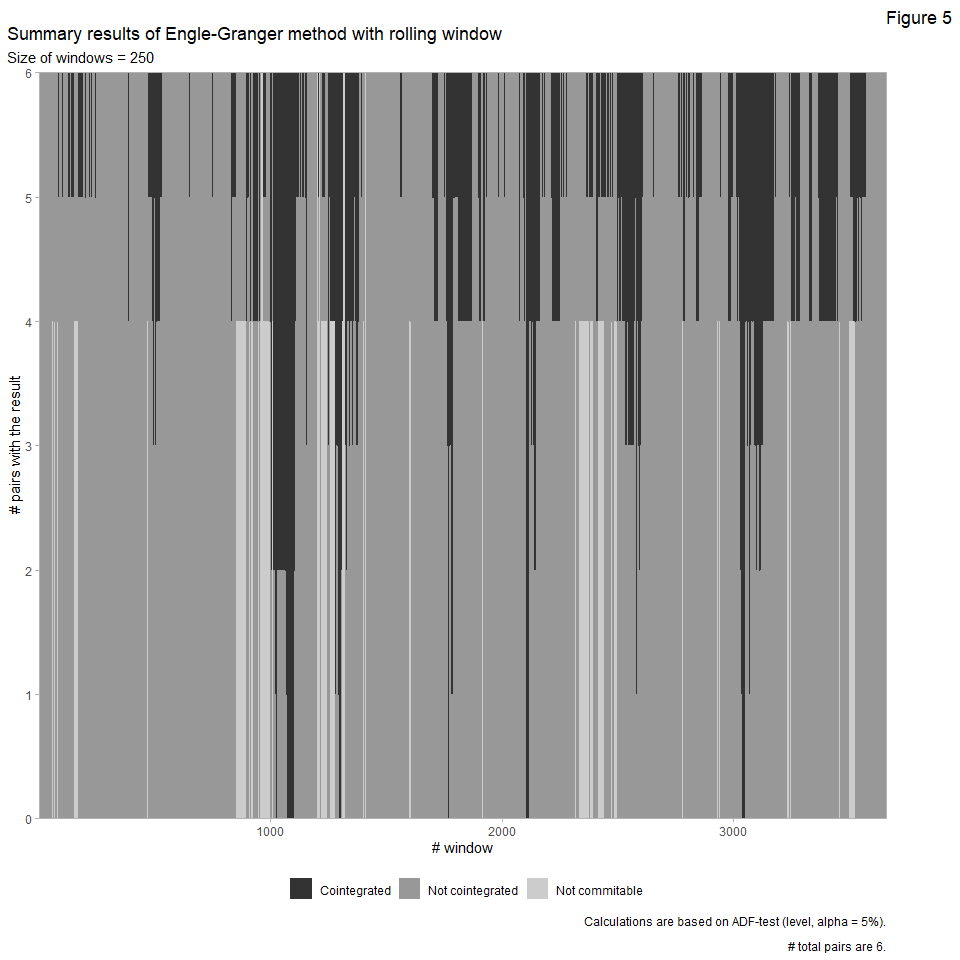
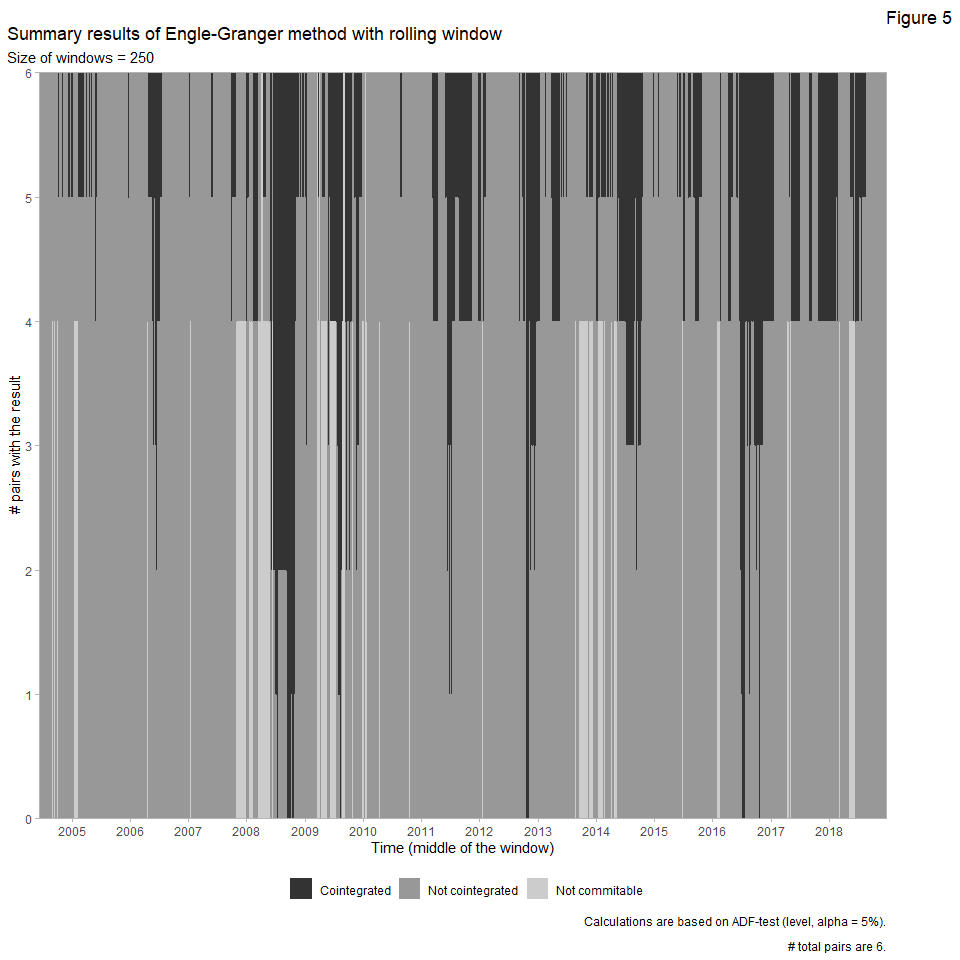
07-15c

diff --git a/Exercise-3.md b/Exercise-3.md
@@ -1,4 +1,4 @@
-Exercise-3
+Exercise 3
 ================
 Granát Marcell
 2020 07 14
@@ -305,25 +305,24 @@ merge(expand.grid(1:(nrow(Bankdata) - 249), c(0, 1, 2)) %>% rename_all(funs(c("t
       cointegration == 1 ~ "Not cointegrated",
       cointegration == 2 ~ "Cointegrated"
     ),
-    cointegration = factor(cointegration, levels = c("Cointegrated", "Not cointegrated", "Not commitable"))
+    cointegration = factor(cointegration, levels = c("Cointegrated", "Not cointegrated", "Not commitable")),
+    t = as.Date(Bankdata$Date)[t + 125]
   ) %>%
   ggplot() +
   geom_area(aes(x = t, y = n, fill = cointegration)) +
-  scale_x_continuous(expand = c(0, 0)) +
   scale_y_continuous(expand = c(0, 0)) +
+  scale_x_date(expand = c(0,0), date_breaks = "1 year", date_labels = "%Y") +
   theme(
     legend.position = "bottom"
-  ) +
-  labs(
+  ) + labs(
     title = "Summary results of Engle-Granger method with rolling window",
     subtitle = "Size of windows = 250",
     y = "# pairs with the result",
-    x = "# window",
+    x = "Time (middle of the window)",
     caption = "Calculations are based on ADF-test (level, alpha = 5%).\n
     # total pairs are 6.",
     tag = 'Figure 5'
-  ) +
-  scale_fill_grey()
+  ) + scale_fill_grey()
 ```
 
 ![](Exercise-3_files/figure-gfm/unnamed-chunk-12-1.png)<!-- -->
@@ -365,24 +364,26 @@ johansen_tests_rw %>%
       name == "pct1" ~ "1%",
       name == "pct5" ~ "5%",
       name == "pct10" ~ "10%"
-    )
-  ) %>%
-  ggplot(aes(x = t, y = value, color = name)) +
+    ),
+    t = as.Date(Bankdata$Date)[t + 125]
+  ) %>% ggplot(aes(x = t, y = value, color = name)) +
   geom_jitter(width = 0, height = 0.05) +
   scale_color_grey() +
   theme(
     legend.position = "bottom"
   ) +
   scale_y_continuous(breaks = c(0, 1, 2)) +
-  scale_x_continuous(expand = c(0, 0)) +
+  scale_x_date(expand = c(0,0), date_breaks = "1 year", date_labels = "%Y") +
   labs(
     title = "Results of Johansen-test with rolling window",
     subtitle = "Size of windows = 250",
     y = "# cointegrated vectors",
-    x = "# window",
-    caption = "Points are jittered around their true y value for better visualisation.\n
-    (The number of cointegrated vectors is interger)",
+    x = "Time (middle of the window)",
+    caption = "Points are jittered around their true y value for better visualisation
+    (the number of cointegrated vectors is interger).",
     tag = 'Figure 6'
+  ) + theme(
+    panel.grid.minor.y = element_blank()
   )
 ```
 
